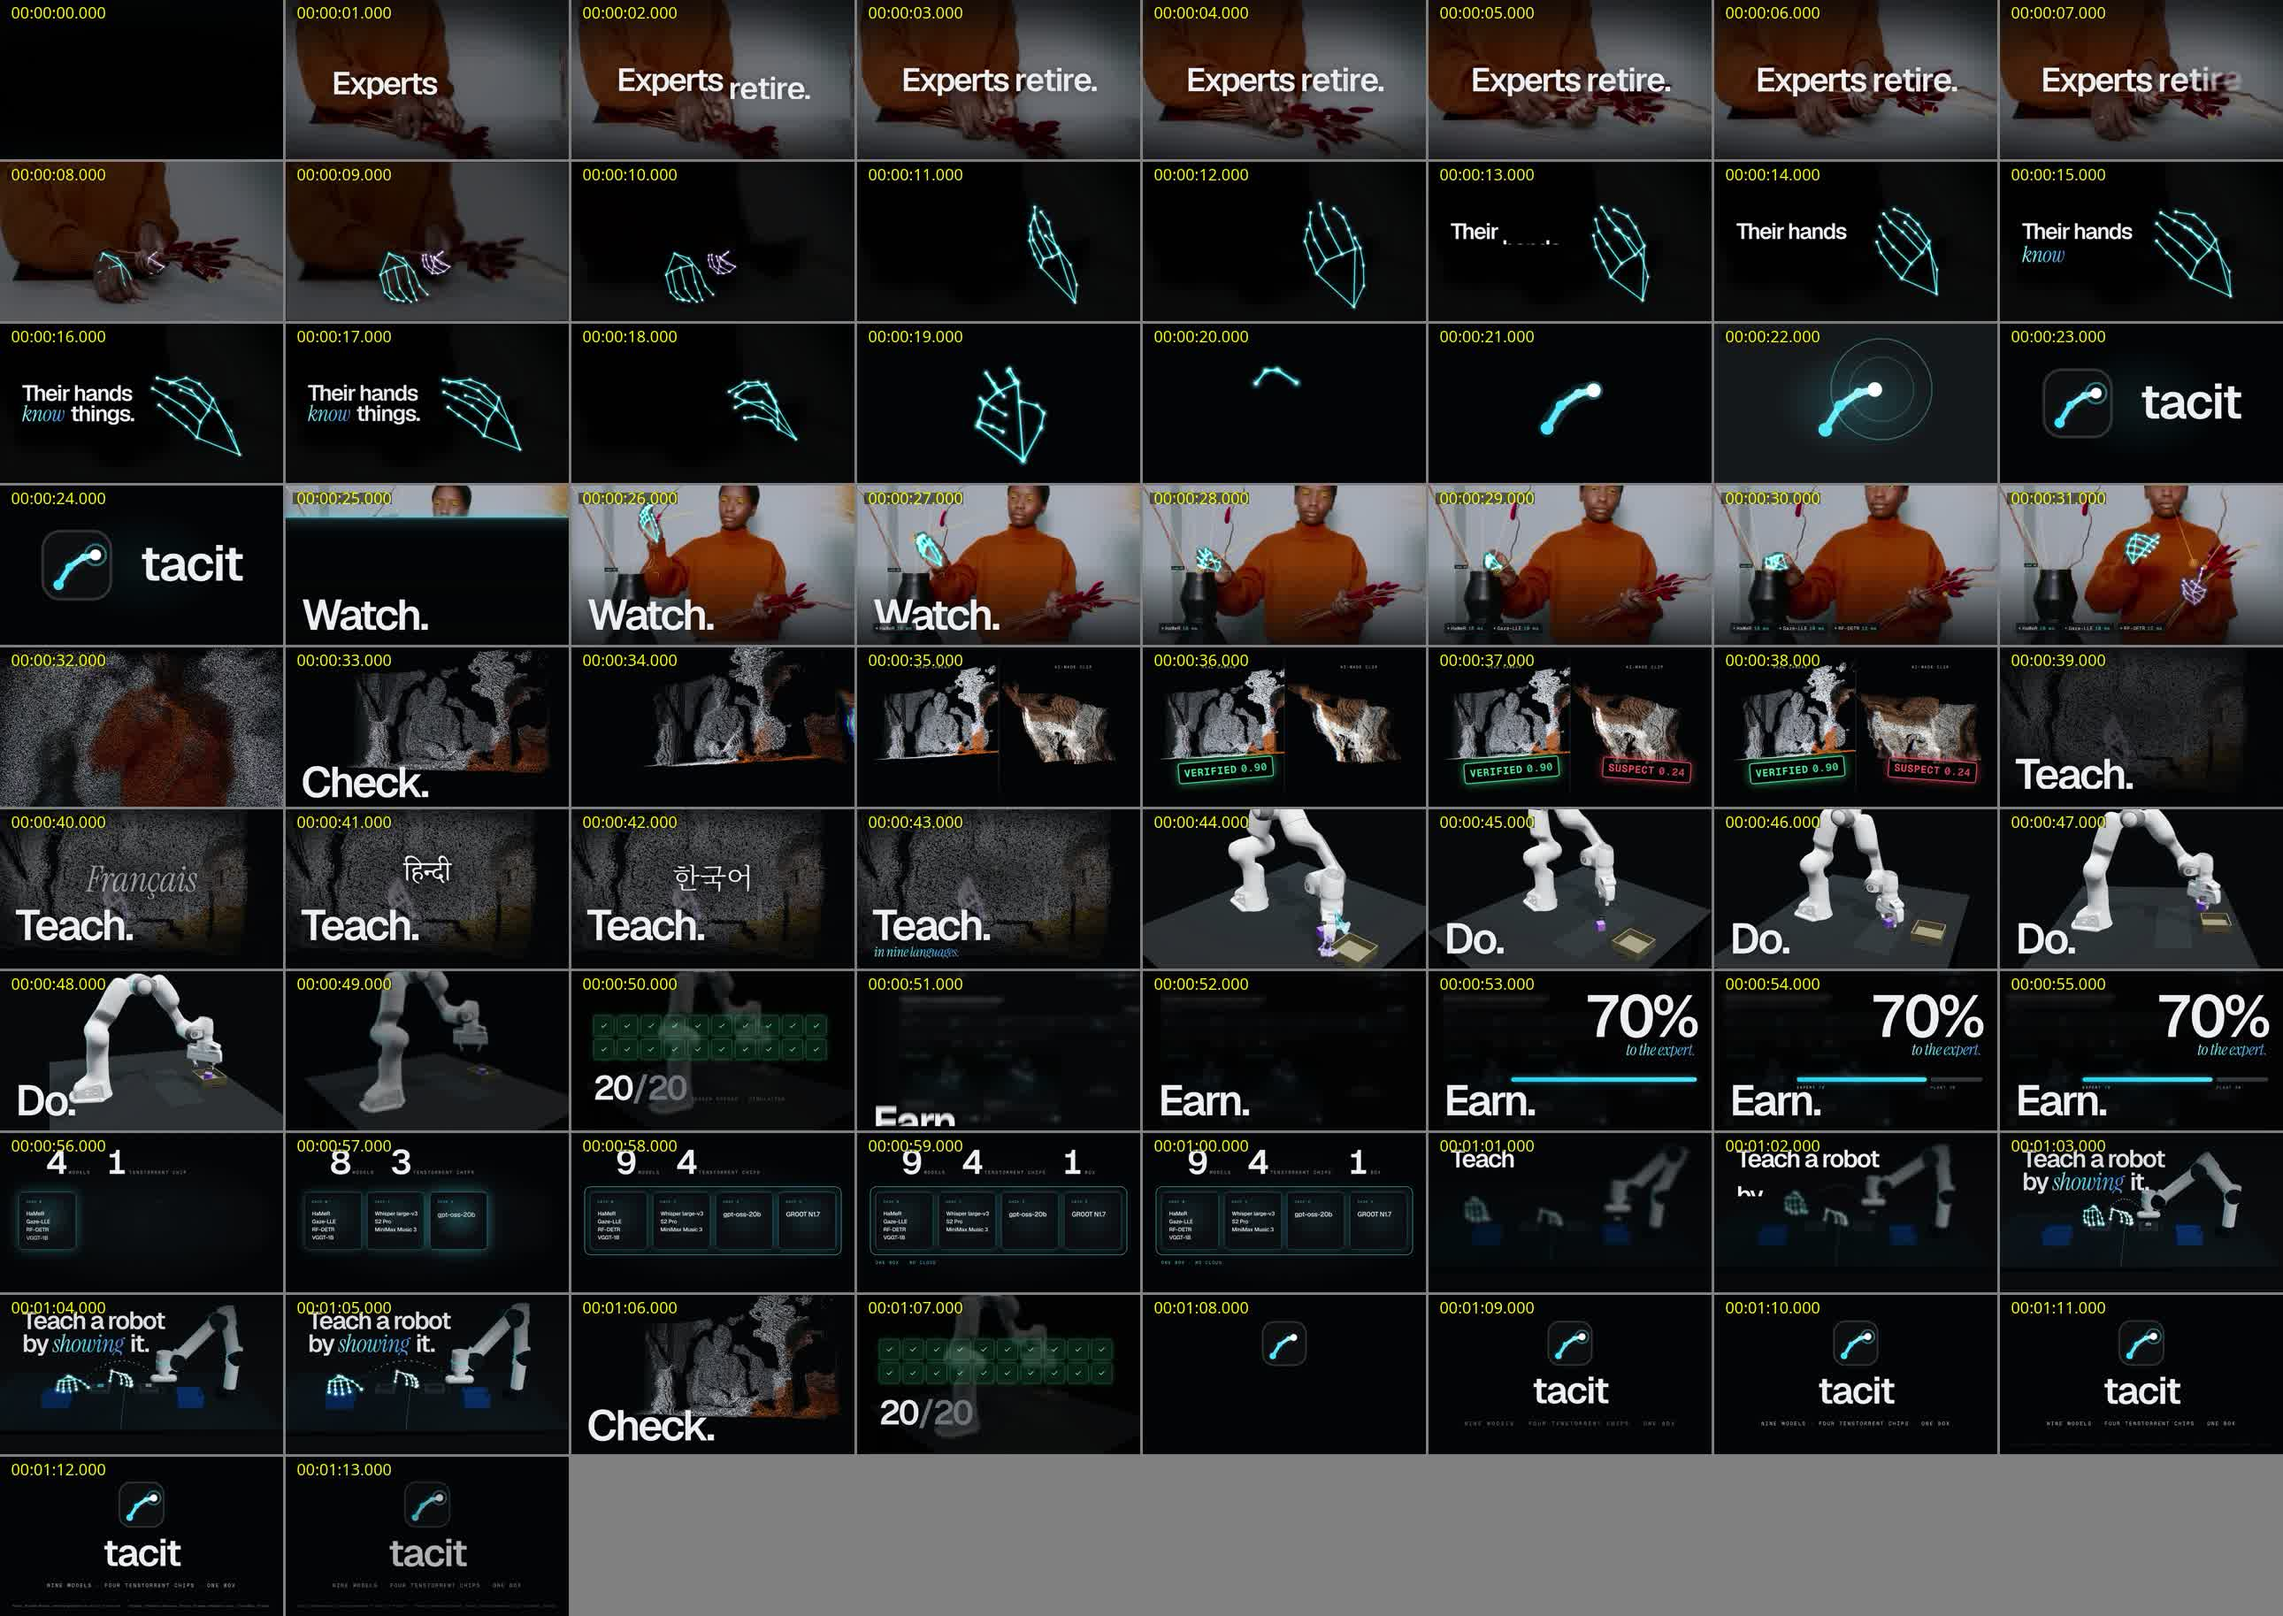
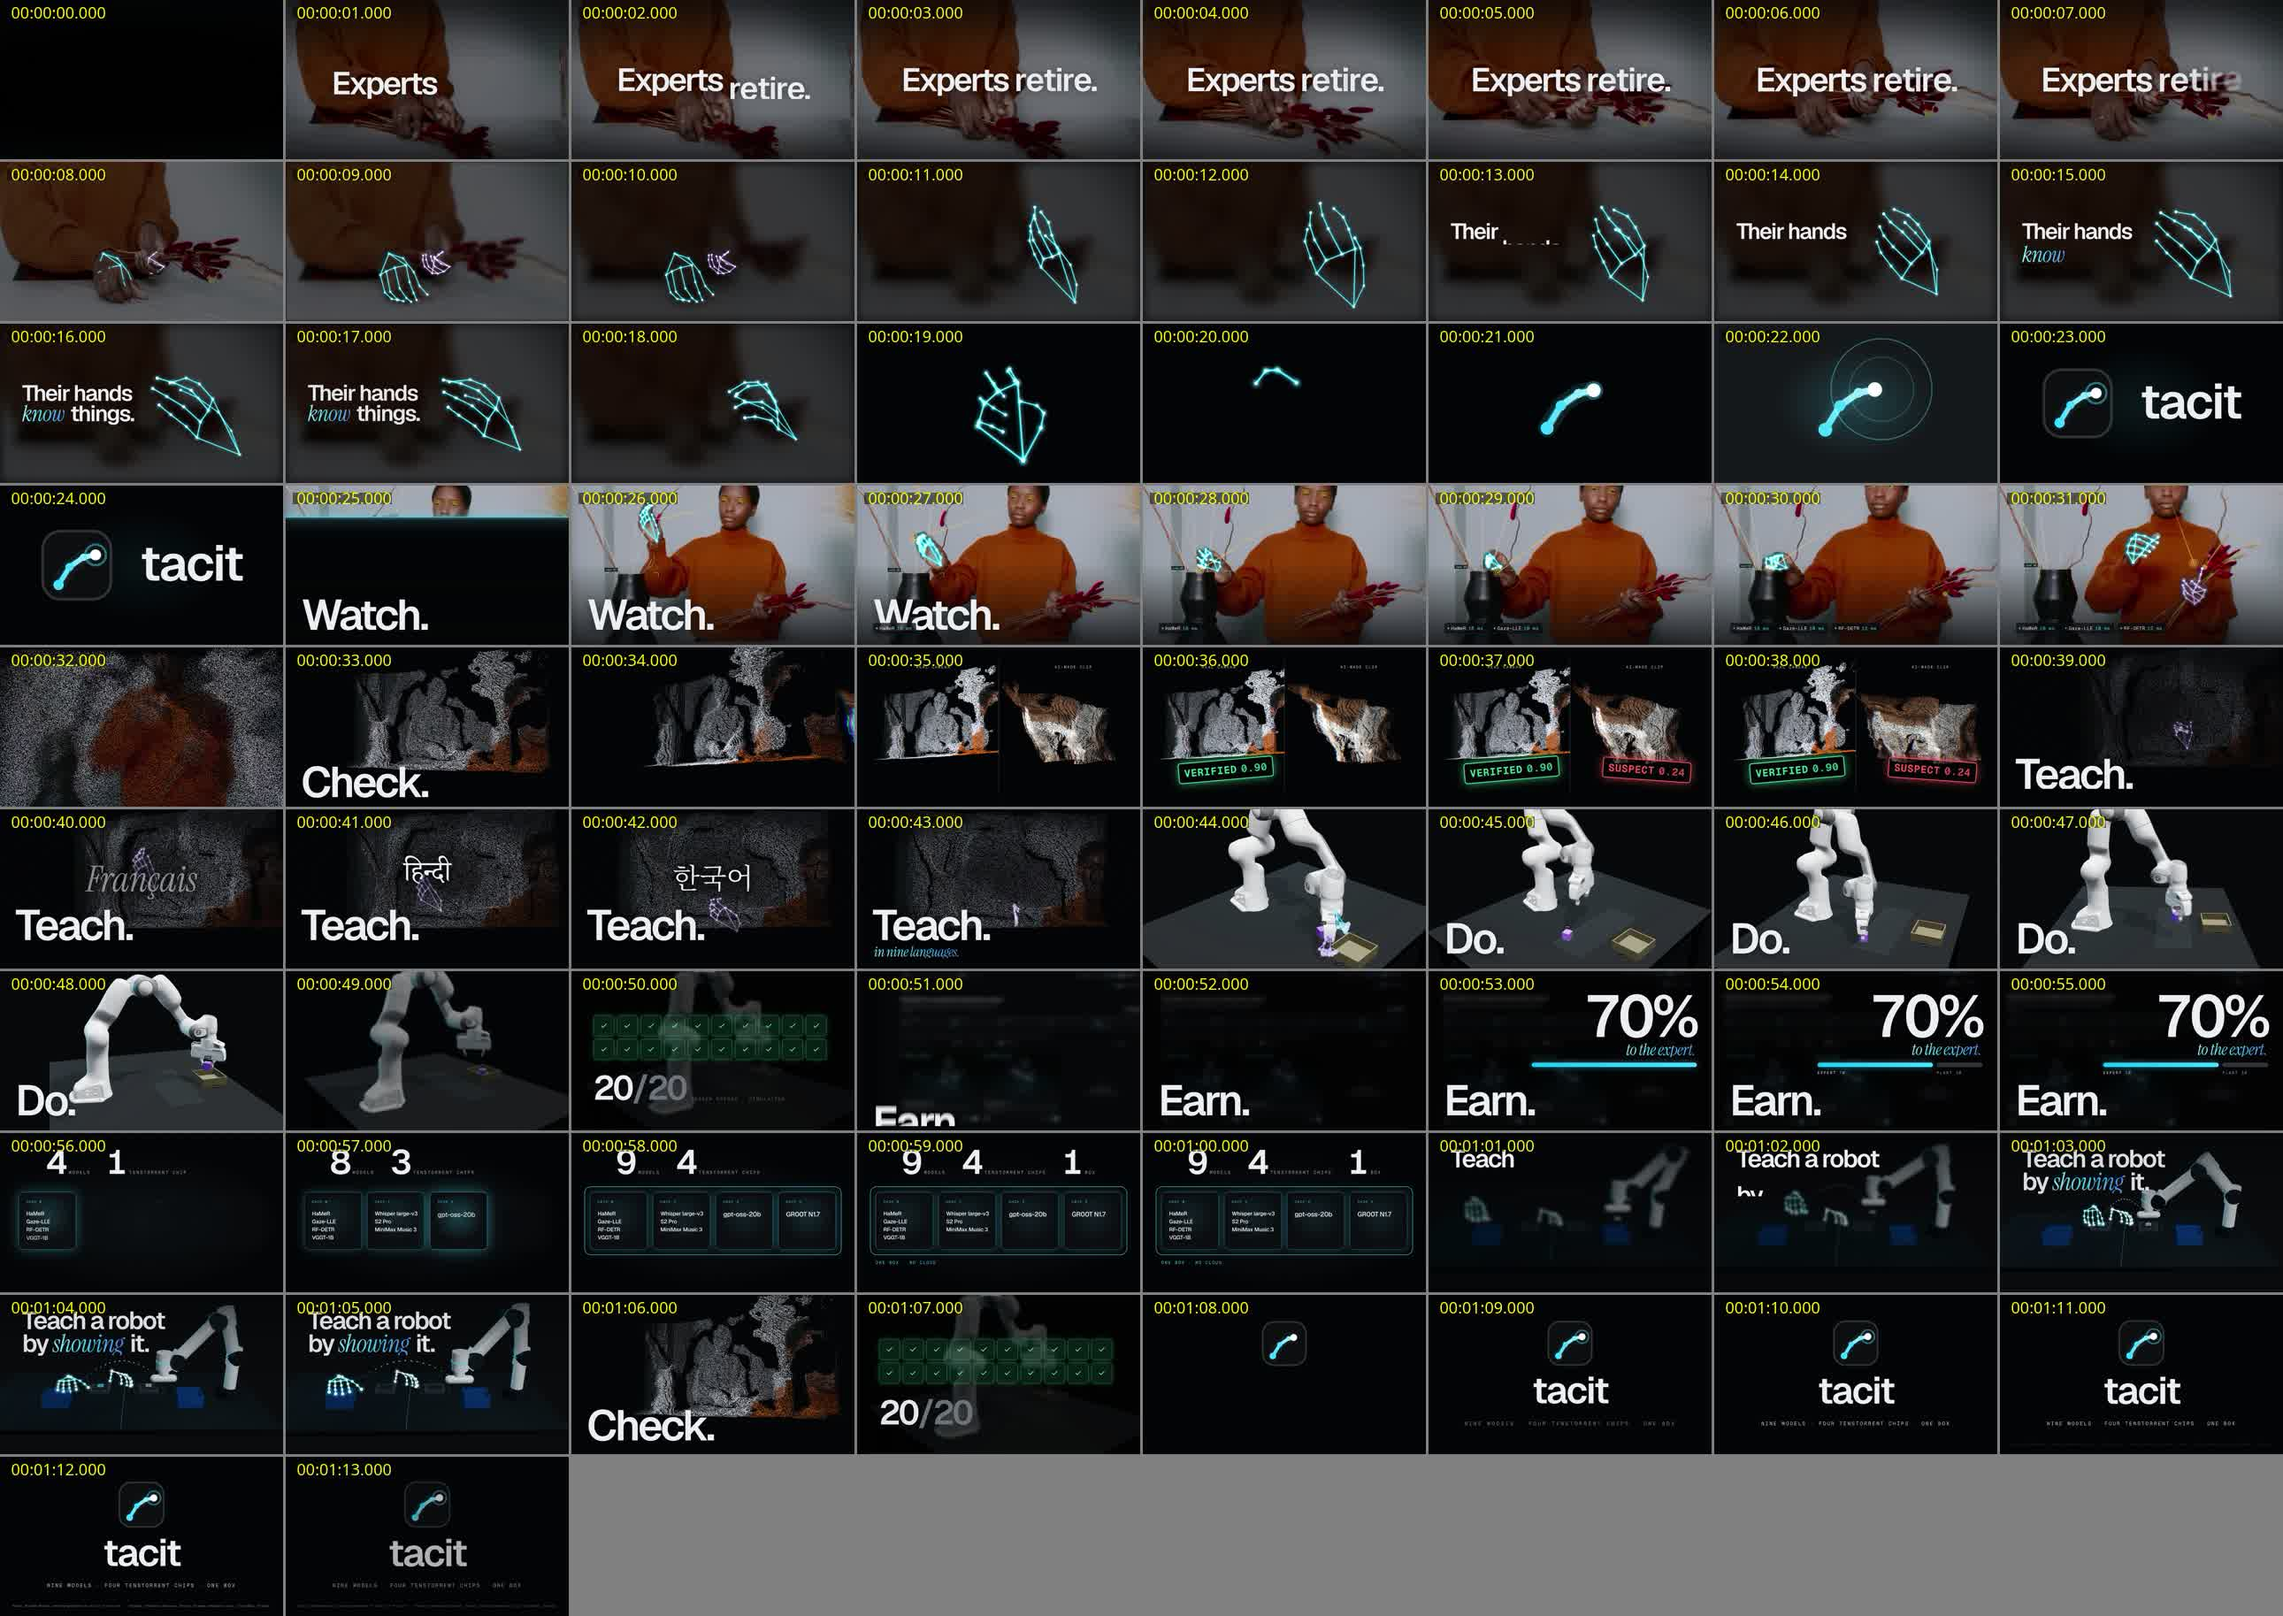
Reach the showreel merge gate: first cut, previews, ledger and handoff
The first cut (74.3 s, 1080p H.264) and the four preview clips are in data/showreel with a
README for every section; the videos are also in the evidence folder on the box, and the
contact sheets and storyboard, ledger and handoff are in git. State set to review.

diff --git a/.orchestration/cards/showreel/status.md b/.orchestration/cards/showreel/status.md
@@ -1,26 +1,25 @@
 # Status: showreel
 
-State: running
-Updated: 2026-10-27T22:47:26+00:00
+State: review
+Updated: 2026-10-27T23:24:22+00:00
+
+Merge gate met; see handoff.md.
 
 ## Works
-- Soundtrack: MiniMax Music 3 on chip 1, two takes in the lead's window (seed 11: 74 s, 433 s of chip
-  time; seed 23: 56 s, ended naturally). Seed 11 chosen (sparse intro, silence before the drop, final lift);
-  mastered with a stop on the last downbeat plus a synthesized room tail (`showreel/tools/master_audio.py`).
-- Reel engine (`showreel/reel/`): the film as a pure function of time, rendered at 3840x2160 by
-  `showreel/render.mjs`, encoded by `showreel/tools/encode.py` (sub-frame motion blur, Lanczos to 1080p).
-- All 11 sections built and checked as stills: cold open, hands, title, Watch, Check, Teach, Do, Earn, Box,
-  tagline, end card. Claims ledger in `showreel/CLAIMS.md`; storyboard in `showreel/STORYBOARD.md`.
-- App captures at 2x (Playwright, virtual clock): lesson (en, es, 3D), exchange, earnings, box, verify, robot
-  lab panels as stills; robot replay run (1x, SwiftShader is too slow at 2x) and the landing hero (2x).
+- First cut `~/tacit/data/showreel/first-cut.mp4` (74.3 s, 1080p H.264 + AAC) and four preview clips (title,
+  Watch to Check, Teach to Do, outro), copies in `~/tacit/.orchestration/evidence/showreel/`.
+- Storyboard `showreel/STORYBOARD.md`, claims ledger `showreel/CLAIMS.md`, section README
+  `~/tacit/data/showreel/README.md`, contact sheets in `.orchestration/evidence/showreel/`.
+- Soundtrack generated on chip 1 (MiniMax Music 3, two takes in the lead's window); credit and
+  machine-generated disclosure on the end card.
+- Two independent review passes; their findings acted on (see handoff.md).
 
 ## Next
-- First cut rendered (22:13Z) and reviewed by an independent agent. Its findings acted on: no demo
-  persona or demo payouts on screen (they put a fake name and earnings on a real Pexels model), Teach and
-  Earn redesigned, Do shows the trained policy picking and placing, plus title, end card, Watch, Check and
-  Box fixes. Rendering the revised cut and previews now; then a re-check and the handoff.
+- The user reviews the first cut. Open choices for them in handoff.md (opening length, soundtrack take).
+- No final render until the user has reviewed.
 
 ## Notes for others
-- Listing detail API 500 (market._count_episodes got a list): reported, fixed by the lead at 21:31Z. The
-  reel keeps the Exchange browse page and Earnings for Earn.
+- Listing detail API 500 (market._count_episodes got a list): reported, fixed by the lead at 21:31Z.
+- Web nit: VerifyTab's details table shows the AI clip's score as "0.23" (toFixed on 0.235); the raw score
+  is about 0.2353, so 0.24 (as the score ring shows) is right.
 - No GPU access for this user (render node ACL is ttuser only), so WebGL captures are software-rendered.

diff --git a/showreel/STORYBOARD.md b/showreel/STORYBOARD.md
@@ -39,7 +39,7 @@ its bars; times below are in the first cut.
 | 3 | Title | 22.4–24.8 (9–10) | **tacit** | On the drop: camera kick, spring settle, fingertip shockwave, wordmark wipe, specular sweep; push-out into the cut | The app's mark, large |
 | 4 | Watch | 24.8–32.1 (10–13) | **Watch.** · `HaMeR 16 ms` `Gaze-LLE 10 ms` `RF-DETR 12 ms` | Scan beam reveal, slow push-in, chips on the beats with their subjects flaring | Original footage: she sets a stem in the vase, eyes on it; skeletons, gaze ray, vase boxes from the tracks |
 | 5 | Check | 32.1–39.3 (13–16) | **Check.** · `VERIFIED 0.90` / `SUSPECT 0.24` | Particle dissolve into VGGT's rebuild, orbit; split screen, stamp slams, RGB-split glitch on the fake | VGGT clouds of the real and the AI-made clip |
-| 6 | Teach | 39.3–44.1 (16–18) | **Teach.** · the nine language names, one per half-beat · *in nine languages.* | Beat-cut word flash over a slow push; zoom-through into the twin's hand | The lesson's 3D twin, cropped to the scene |
+| 6 | Teach | 39.3–44.1 (16–18) | **Teach.** · the nine language names, one per half-beat · *in nine languages.* | Beat-cut word flash over a slow orbit; zoom-through into the twin's hand | The lesson's 3D twin, drawn from the skill's own cloud and 3D hand |
 | 7 | Do | 44.1–51.3 (18–21) | **Do.** · **20/20** `unseen scenes · simulation` | Zoom-out match cut, hard cut on the beat to the policy run, mosaic of trial tiles flipping on the beat | Robot Lab: her ghost hands on the replay, then the trained policy picking and placing the stem; the 20 evaluated trials |
 | 8 | Earn | 51.3–56.1 (21–23) | **Earn.** **70%** *to the expert.* · `expert 70` `plant 30` | Whip pan with motion blur, counter roll, a bar splitting on the beat | The Skill Exchange, blurred to texture |
 | 9 | Box | 56.1–60.9 (23–25) | **9** models · **4** Tenstorrent chips · **1** box | One chip per beat with its models, counters stepping; one outline closes around all four on the breakdown | Drawn from `/api/box` |

diff --git a/.orchestration/cards/showreel/handoff.md b/.orchestration/cards/showreel/handoff.md
@@ -2,9 +2,10 @@
 
 ## What is done
 
-- **First cut**: `~/tacit/data/showreel/first-cut.mp4`, 74.3 s, 1920x1080, 30 fps, H.264 High (yuv420p,
-  BT.709, CRF 14 under a 40 Mbit/s cap) with AAC 320 kb/s. Rendered at 3840x2160 and downsampled.
-  Not a final render: the user reviews this cut first.
+- **First cut**: `~/tacit/data/showreel/first-cut.mp4`, 74.3 s, 1920x1080, 30 fps, H.264 High@4.2
+  (yuv420p, BT.709, CRF 14 under a 40 Mbit/s VBV cap; 10.5 Mbit/s average, busiest second 60 Mbit/s,
+  97 MB) with AAC 320 kb/s stereo. Rendered at 3840x2160 and downsampled. Not a final render: the user
+  reviews this cut first.
 - **Preview clips** (the review gates), encoded from the cut's own frames: `preview-1-title.mp4` (0–25 s),
   `preview-2-watch-to-check.mp4` (30.0–35.6 s), `preview-3-teach-to-do.mp4` (41.6–47.4 s),
   `preview-4-outro.mp4` (60.4–74.3 s). Copies of all five in `~/tacit/.orchestration/evidence/showreel/`
@@ -44,6 +45,15 @@ See `showreel/README.md`. In short: `cd showreel && uv sync && ./make.sh cut && 
   revised one.
 - Teach shows the nine offered languages, not nine translations: requesting the eight missing ones
   would queue their narration on chip 1, which the lead keeps free for people.
+- The same reviewer re-checked the revised render. Its remaining top three were then fixed:
+  - Teach's twin is now drawn from the skill's own cloud and 3D hand, not an upscaled screenshot.
+  - The vase-rim hand: the tracker had reported one hand twice; the reel now keeps one detection.
+  - The hands section got a visible defocused plate and depth-driven line weight.
+  - Smaller fixes: Earn's bar placement, and the policy run recaptured with the lab's labels off.
+  Still open, and judged acceptable for a first cut:
+  - The title holds centred for about 2 s.
+  - Box is clean but slide-like.
+  - Watch's latency chips are a row of pills.
 
 ## For the user's review (choices I left open)
 
